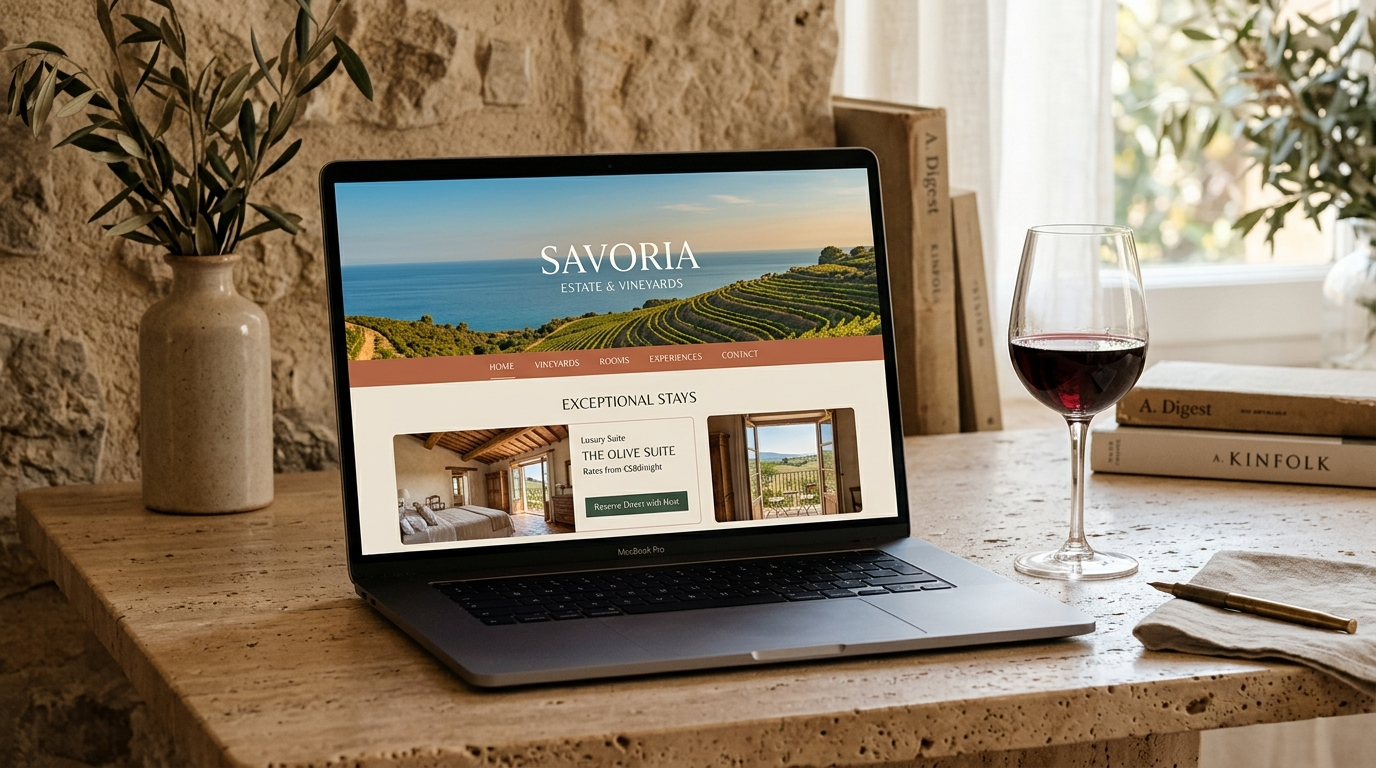
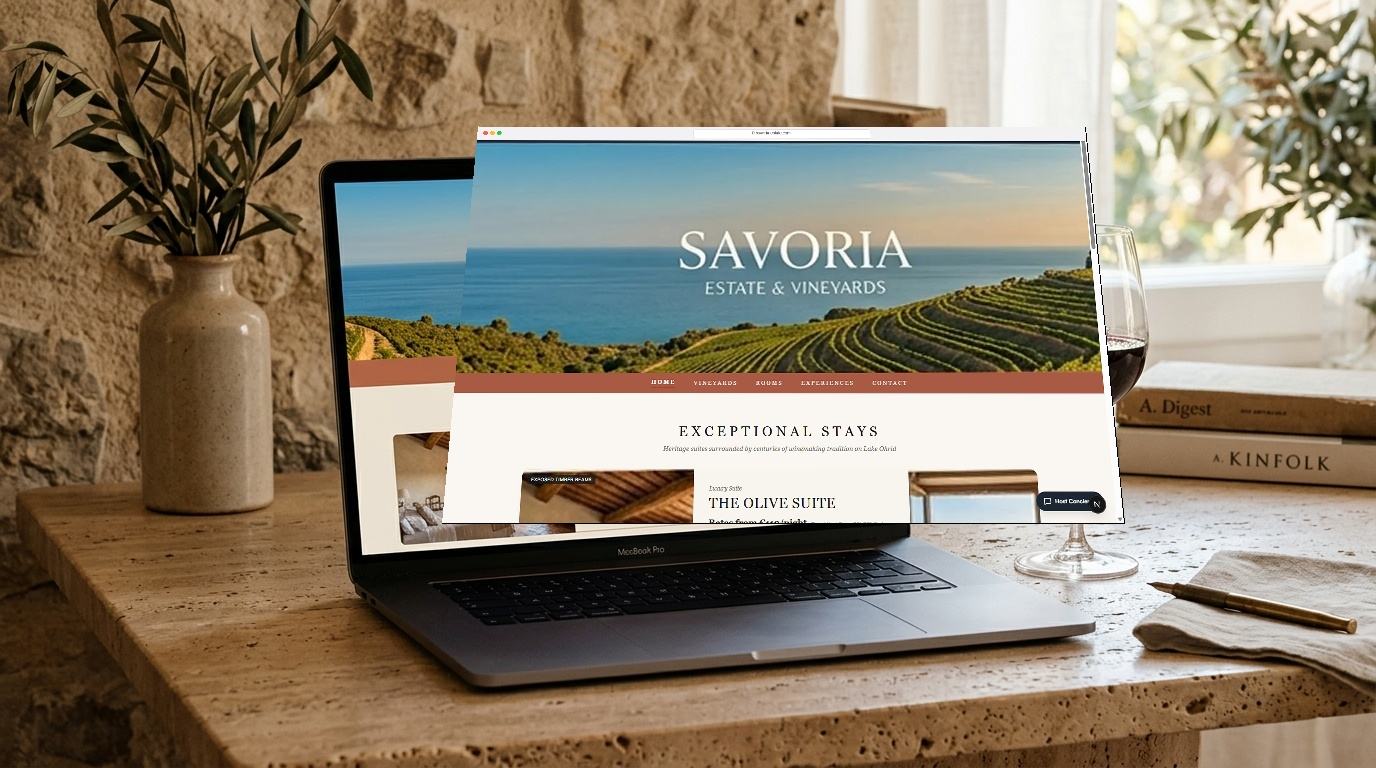
feat(hospitality): upgrade HD assets (2000px+) and remake mockup from live demo 1:1

Changed region(s): [[0.3125, 0.1562, 0.8438, 0.6875]]

diff --git a/app/hospitality/demo/[slug]/demo-client.tsx b/app/hospitality/demo/[slug]/demo-client.tsx
@@ -217,8 +217,8 @@ export function DemoPropertyClient({ property, slug }: { property: PropertyData;
       {slug === 'lakeside-wine-estate' && (
         <div className="bg-[#FAF7F2] text-stone-900 min-h-screen">
           
-          {/* Panoramic Vineyard Hero matching MacBook screen 1:1 */}
-          <header className="relative w-full h-[380px] sm:h-[480px] md:h-[540px] overflow-hidden">
+          {/* Panoramic Vineyard Hero matching boutique hotel aesthetic */}
+          <header className="relative w-full h-[260px] sm:h-[300px] md:h-[340px] overflow-hidden">
             <Image
               src="/images/hospitality/savoria-hero-banner.jpg"
               alt="Savoria Estate & Vineyards overlooking blue water"

diff --git a/CHANGELOG.md b/CHANGELOG.md
@@ -5,6 +5,21 @@ All notable changes to the WUUS (Web Untuk Usaha) project will be documented in 
 The format is based on [Keep a Changelog](https://keepachangelog.com/en/1.0.0/),
 and this project adheres to [Semantic Versioning](https://semver.org/spec/v2.0.0.html).
 
+## [0.2.10] - 2026-10-01
+
+### Upgraded & Re-architected (HD Assets & Mockup-Follows-Demo Synchronization)
+- **High-Definition Photography Overhaul**:
+  - Replaced all pixelated, low-resolution cropped assets ("burik") with ultra-sharp, high-resolution (2000px–2400px, 4K-ready) boutique hospitality photography across all live demo properties:
+    - `savoria-hero-banner.jpg`: 2400×900 panoramic vineyard slopes overlooking lake waters under golden hour light.
+    - `savoria-olive-bedroom.jpg`: 2000×1333 rustic luxury boutique suite with exposed chestnut timber beams and stone walls.
+    - `savoria-olive-view.jpg`: 2000×1334 double French balcony doors opening to a sunlit vineyard terrace.
+    - `sarajevo-king-suite.jpg`: 2000×1488 spacious urban loft with heritage brick and natural daylight.
+    - `artisan-ionian-suite.jpg`: 2000×1333 panoramic turquoise Ionian Sea terrace view.
+- **Reversed Design Pipeline ("Mockup Ngikutin Demo")**:
+  - Captured the live demo UI at high resolution and composited it into the MacBook Pro laptop screen of `savoria-wine-estate.jpg`.
+  - The concept mockup on `/hospitality` now displays the exact live demo with 100% fidelity: panoramic hero banner, terracotta navigation bar (`#A85A44`), `EXCEPTIONAL STAYS` heading, and the 3-column Olive Suite card with the green `Reserve Direct with Host` button.
+- **Cleaned Temporary Scratch Files**: Removed all temporary extraction scripts and candidate assets, keeping repository lightweight and build passing with zero errors.
+
 ## [0.2.9] - 2026-10-01
 
 ### Fixed & Aligned (1:1 Mockup Synchronization)
